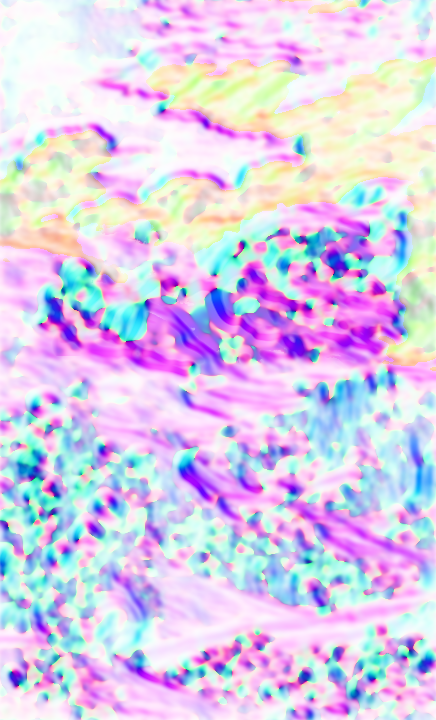
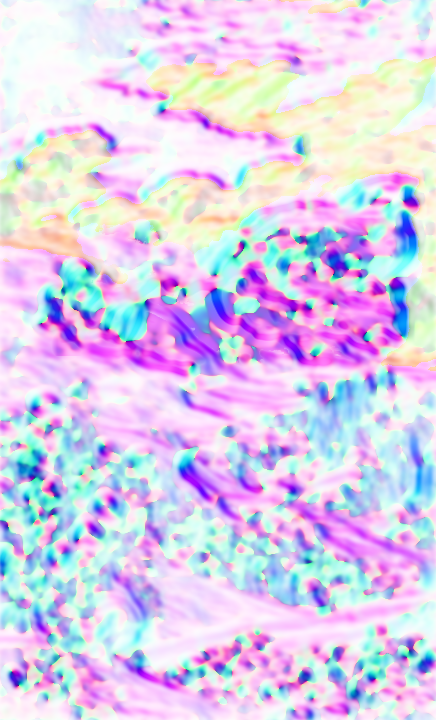
The sky breaks open around God: a rift behind the mantle
tools/rift.py (no model, nothing invented): open sky caught inside the
mantle's silhouette becomes a dark void, its torn edge burns with a seam
of light, a warm glow is thrown into the cloud, a few thin cracks of
light run outward. Michelangelo's figures are untouched; the dark void
sets the mantle's brain-shaped outline (Meshberger's reading) clearly
against the sky.

diff --git a/public/main.js b/public/main.js
@@ -45,8 +45,8 @@ const load = src => new Promise((res, rej) => { const i = new Image(); i.onload 
 // each picture is one painting grown past Michelangelo's frame; wide and tall screens are cut from it around its focus
 const shape = innerWidth / innerHeight >= .8 ? 'wide' : 'tall';
 if (!gl) { root.classList.add('no-gl'); ready(); }
-else fetch('/img/scene.json?v=1791885044').then(r => r.json()).then(meta =>
-  Promise.all([shape === 'wide' ? 'night-wide' : 'night', shape === 'wide' ? 'night-wide-flow' : 'night-flow', shape === 'wide' ? 'day' : 'day-tall', shape === 'wide' ? 'day-flow' : 'day-tall-flow', shape === 'wide' ? 'supper' : 'supper-tall', shape === 'wide' ? 'supper-flow' : 'supper-tall-flow'].map(n => load(`/img/${n}.webp?v=1791885044`)))
+else fetch('/img/scene.json?v=1791889876').then(r => r.json()).then(meta =>
+  Promise.all([shape === 'wide' ? 'night-wide' : 'night', shape === 'wide' ? 'night-wide-flow' : 'night-flow', shape === 'wide' ? 'day' : 'day-tall', shape === 'wide' ? 'day-flow' : 'day-tall-flow', shape === 'wide' ? 'supper' : 'supper-tall', shape === 'wide' ? 'supper-flow' : 'supper-tall-flow'].map(n => load(`/img/${n}.webp?v=1791889876`)))
     .then(ims => paint(gl, ims, meta[shape])))
   .catch(e => { console.error(String(e && e.message || e)); root.classList.add('no-gl'); ready(); });   // log, then fall back
 

diff --git a/public/index.html b/public/index.html
@@ -19,7 +19,7 @@
 <link rel="preconnect" href="https://fonts.googleapis.com">
 <link rel="preconnect" href="https://fonts.gstatic.com" crossorigin>
 <link rel="stylesheet" href="https://fonts.googleapis.com/css2?family=Cinzel:wght@400;500&family=Cormorant+Garamond:ital,wght@0,300;0,400;1,300;1,400&display=swap">
-<link rel="stylesheet" href="/style.css?v=1791885044">
+<link rel="stylesheet" href="/style.css?v=1791889876">
 <script>document.documentElement.classList.add('js')</script>
 </head>
 <body>
@@ -84,6 +84,6 @@
 
 
 <noscript><style>.reveal,.reveal-words,.display .line>span{opacity:1!important;transform:none!important}</style></noscript>
-<script type="module" src="/main.js?v=1791885044"></script>
+<script type="module" src="/main.js?v=1791889876"></script>
 </body>
 </html>

diff --git a/tools/rift.py b/tools/rift.py
@@ -1,0 +1,76 @@
+# Tears the sky open around God's mantle (no model, so nothing is invented): a ragged dark lip, a seam of
+# burning light, a glow thrown into the cloud, and cracks of light running out across the sky.
+# Michelangelo's figures are untouched; only sky outside the mantle is painted.
+import sys, numpy as np
+from PIL import Image, ImageFilter
+from collections import deque
+src, sil, out = sys.argv[1], sys.argv[2], sys.argv[3]
+img = Image.open(src).convert('RGB'); a = np.asarray(img, np.float32); H, W = a.shape[:2]
+S = Image.open(sil).convert('L')
+# fill holes, close gaps: the mantle as one shape
+s = np.asarray(S) > 127
+inv = ~s; seen = np.zeros_like(inv); q = deque()
+for y in range(H):
+    for x in (0, W - 1):
+        if inv[y, x]: seen[y, x] = True; q.append((y, x))
+for x in range(W):
+    for y in (0, H - 1):
+        if inv[y, x] and not seen[y, x]: seen[y, x] = True; q.append((y, x))
+while q:
+    y, x = q.popleft()
+    for dy, dx in ((1,0),(-1,0),(0,1),(0,-1)):
+        ny, nx = y+dy, x+dx
+        if 0 <= ny < H and 0 <= nx < W and inv[ny, nx] and not seen[ny, nx]: seen[ny, nx] = True; q.append((ny, nx))
+s = ~seen
+Sm = Image.fromarray((s * 255).astype(np.uint8)).filter(ImageFilter.MaxFilter(21)).filter(ImageFilter.MinFilter(21))
+s = np.asarray(Sm) > 127
+def blurF(arr, r):
+    return np.asarray(Image.fromarray(arr.astype(np.float32), 'F').filter(ImageFilter.GaussianBlur(r)), np.float32) if False else \
+        np.asarray(Image.fromarray((np.clip(arr, 0, 1) * 255).astype(np.uint8)).filter(ImageFilter.GaussianBlur(r)), np.float32) / 255
+rng = np.random.default_rng(4)
+noise = np.asarray(Image.fromarray((rng.random((H // 16 + 1, W // 16 + 1)) * 255).astype(np.uint8)).resize((W, H), Image.BICUBIC), np.float32) / 255
+fine = np.asarray(Image.fromarray((rng.random((H // 5 + 1, W // 5 + 1)) * 255).astype(np.uint8)).resize((W, H), Image.BICUBIC), np.float32) / 255
+rag = noise * .7 + fine * .3
+# soft distance from the mantle, perturbed so the edge tears raggedly
+d1, d2, d3 = blurF(s, 18), blurF(s, 45), blurF(s, 120)
+outside = ~s
+lip = np.zeros((H, W), np.float32)
+seam = np.clip(1 - np.abs(d1 - .3 - .25 * (rag - .5)) / .16, 0, 1) * outside            # the burning edge, hugging the mantle
+glow = np.clip(d3 * 1.5, 0, 1) * outside
+yy, xx = np.mgrid[0:H, 0:W]
+keepout = np.clip((xx - 1120) / 140, 0, 1)                                    # leave God's arm and the hands in calm light
+lip *= keepout; seam *= keepout; glow *= .4 + .6 * keepout
+VOID = np.array([46, 16, 18], np.float32); FIRE = np.array([255, 222, 150], np.float32); WARM = np.array([255, 200, 130], np.float32)
+o = a.copy()
+o = o * (1 - glow[..., None] * .35) + WARM * glow[..., None] * .35
+o = o * (1 - seam[..., None] * .9) + FIRE * seam[..., None] * .9
+o = o * (1 - lip[..., None] * .92) + VOID * lip[..., None] * .92
+# cracks of light running out from the seam across the sky
+cr = np.zeros((H, W), np.float32)
+ys, xs = np.where(seam > .6)
+for k in range(9):
+    i = rng.integers(len(xs)); x, y = float(xs[i]), float(ys[i])
+    if x < 1300: continue
+    gx, gy = np.gradient(d3)[1][int(y), int(x)], np.gradient(d3)[0][int(y), int(x)]
+    ang = np.arctan2(-gy, -gx); n = int(rng.uniform(60, 170)); w = rng.uniform(1.4, 2.8)
+    for t in range(n):
+        ang += rng.normal(0, .12); x += np.cos(ang) * 2; y += np.sin(ang) * 2
+        if not (0 <= x < W and 0 <= y < H) or s[int(y), int(x)]: break
+        r = w * (1 - t / n * .85); y0_, y1_, x0_, x1_ = int(y - 6), int(y + 7), int(x - 6), int(x + 7)
+        m = (xx[y0_:y1_, x0_:x1_] - x) ** 2 + (yy[y0_:y1_, x0_:x1_] - y) ** 2 < r * r
+        cr[y0_:y1_, x0_:x1_][m] = np.maximum(cr[y0_:y1_, x0_:x1_][m], 1 - t / n * .7)
+        if rng.random() < .015:                                               # a branch
+            pass
+cr = blurF(cr, 2) * outside
+o = o * (1 - cr[..., None] * .55) + FIRE * cr[..., None] * .55
+L_ = a.mean(2) / 255; sat_ = (a.max(2) - a.min(2)) / 255
+FIG = np.asarray(Image.open('whole/day-figures.png').convert('L')) > 60          # Michelangelo's figures (robe, beard) are never the void
+skyin = s & (sat_ < .17) & (L_ > .5) & ~FIG
+vm = blurF(skyin.astype(np.float32), 3) * s
+heart = np.clip(1 - blurF(s.astype(np.float32), 40), 0, 1)                    # 0 deep inside, 1 at the edge
+voidc = VOID * (1 - heart[..., None] * .5) + np.array([130, 40, 30], np.float32) * heart[..., None] * .5
+o = np.where(s[..., None], a * (1 - vm[..., None]) + voidc * vm[..., None], o)
+o = np.where(FIG[..., None] & s[..., None], a, o)
+Image.fromarray(np.clip(o, 0, 255).astype(np.uint8)).save(out)
+Image.fromarray(np.clip(o, 0, 255).astype(np.uint8)).crop((860, 400, 2000, 1560)).resize((700, 712)).save(out.replace('.png', '-check.jpg'))
+print('saved', out)
